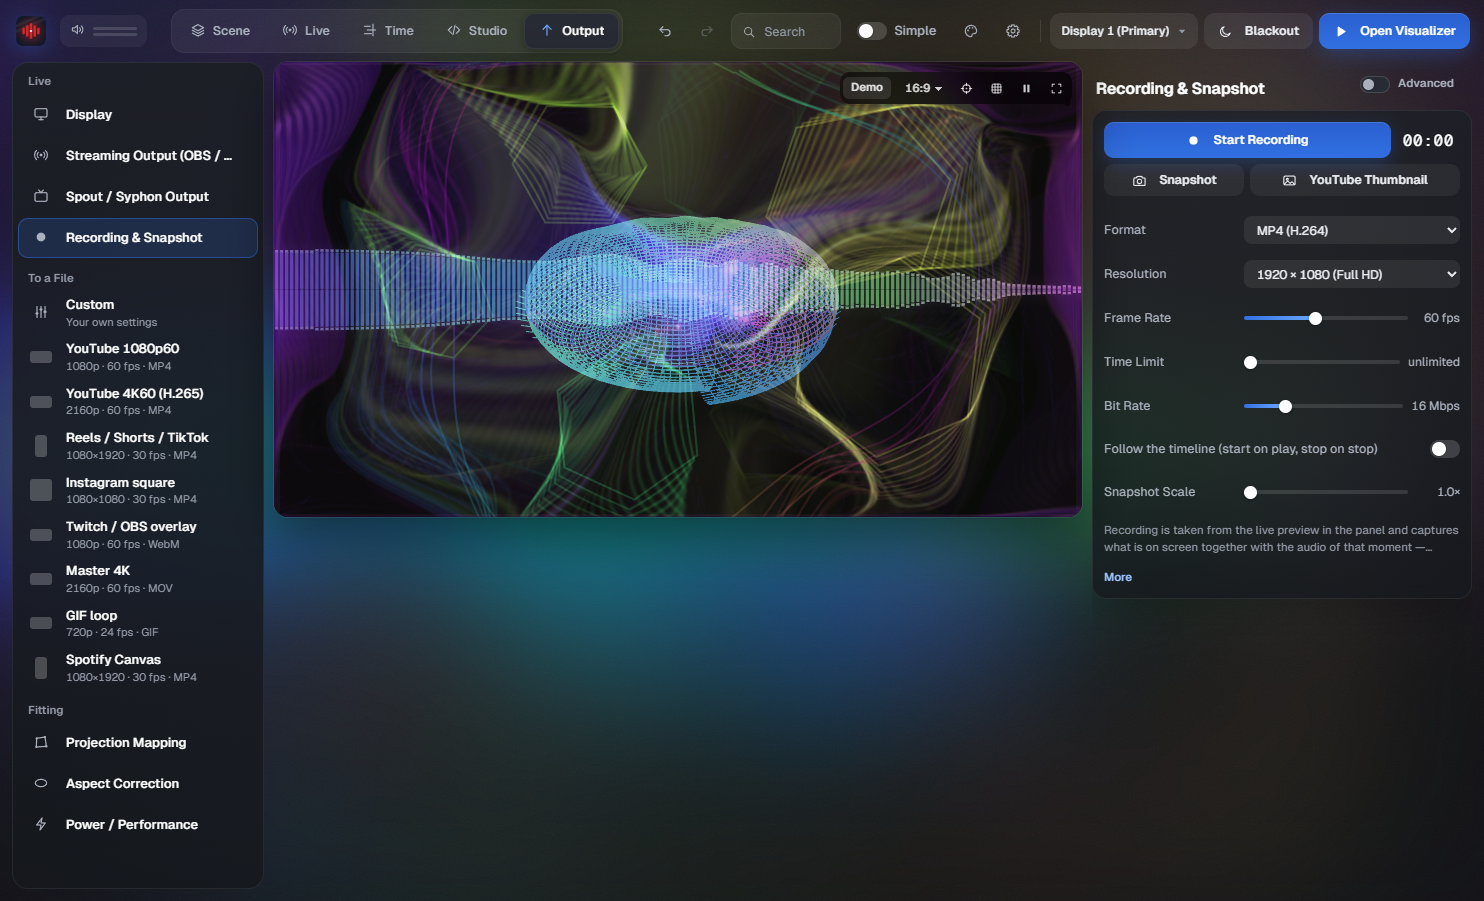
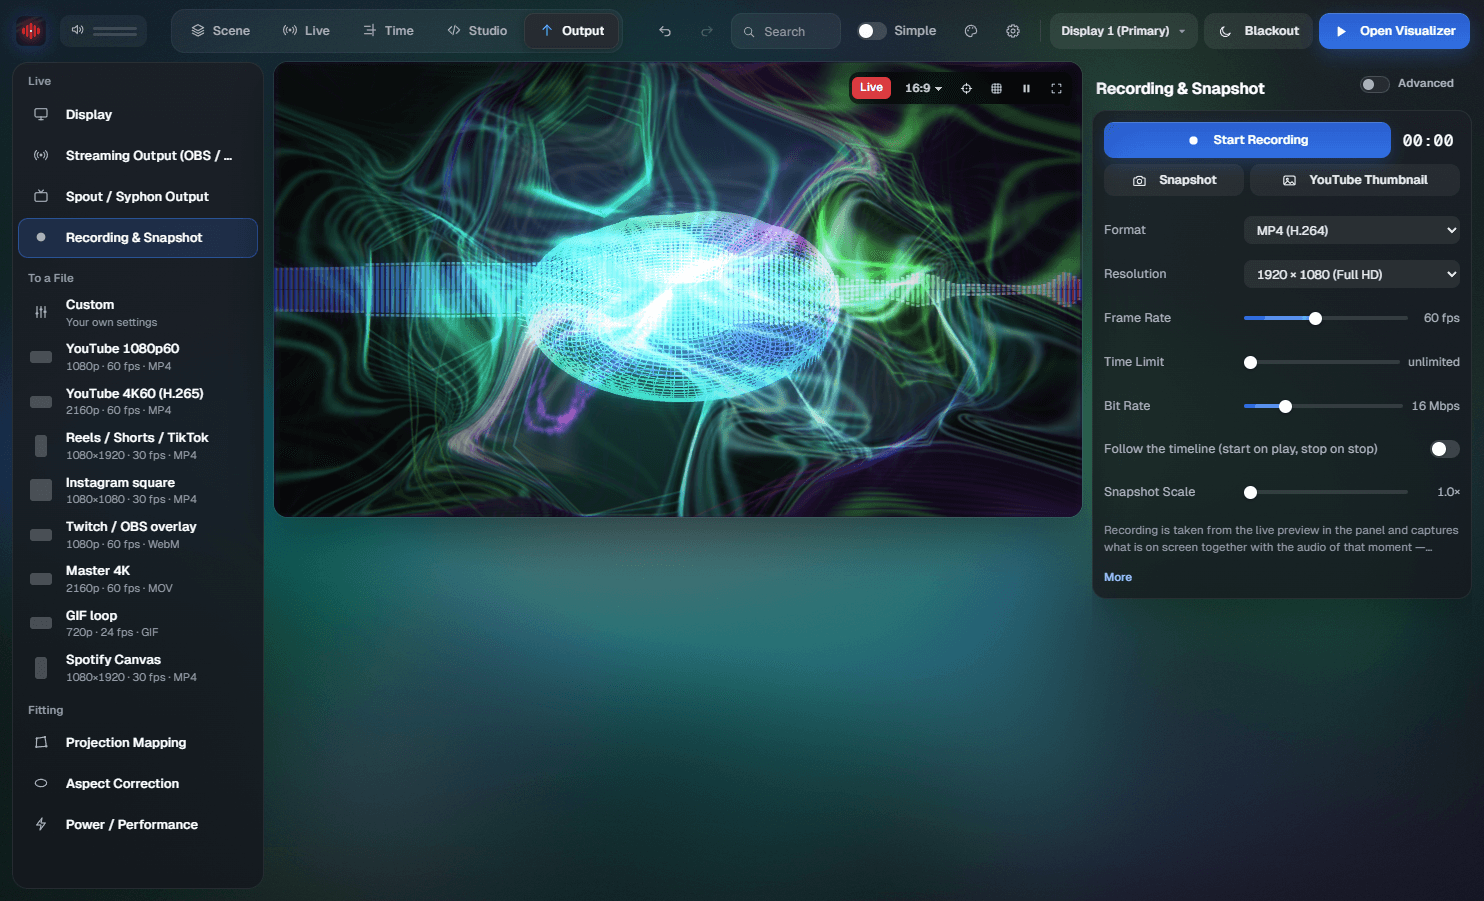
docs(v4): retake README panel screenshots; Deep Analysis name; default MilkDrop preset thumbnails (#905)
- --shots: demo show gets the example scenes, an effect chain, named macros
  and routes, synthetic audio for the panel; Live page, phone remote and
  Layout Editor shots; setup pages open on the right section; panel PNGs are
  palette-quantized (20 files 5.8 MB, mean difference 0.5-2.5 levels).
- English menu: 'Ses Çözümlemesi' is Deep Analysis (two Audio Analysis
  entries before).
- MilkDrop layers with no preset chosen show the preset the engine draws;
  late MilkDrop thumbnails also reach the Cued monitor.

diff --git a/src/main/main.js b/src/main/main.js
@@ -12581,7 +12581,15 @@ async function runShots() {
     const leak = realDevices.find((n) => text.includes(n));
     if (leak) throw new Error('gerçek ses aygıtı adı görünüyor');
     const img = await win.webContents.capturePage();
-    fs.writeFileSync(path.join(shotsDir, name), img.toPNG());
+    let png = img.toPNG();
+    /* Panel görüntüleri paletle (libimagequant, dither'lı). Canlı önizlemeden beslenen ortam ışığı
+       PNG'de kötü sıkışıyor: 20 görüntü 22 MB'tı, böyle ~6 MB. Ölçüldü: ortalama kanal farkı
+       0,7–2,3 seviye, yazılar ve arayüz aynı. Sahne çizimlerine (renk geçişleri) uygulanmıyor. */
+    if (/^panel-.*\.png$/.test(name)) {
+      try { png = await require('sharp')(png).png({ palette: true, quality: 92, effort: 10, dither: 1.0, compressionLevel: 9 }).toBuffer(); }
+      catch (e) { /* sharp yok: özgün PNG */ }
+    }
+    fs.writeFileSync(path.join(shotsDir, name), png);
     console.log('[SHOTS] saved ' + name);
   };
 
@@ -12700,6 +12708,25 @@ async function runShots() {
       { id: 'ly_show_np', name: 'Track Info', kind: 'nowplaying', type: 'nowplaying', enabled: true, settings: {} },
     ],
     visualizer: { type: 'milkdrop' },
+    /* Efekt zinciri boş olunca README'nin efekt görseli "Add effect…" diyen boş bir kart gösteriyordu. */
+    postfx: [
+      { id: 'fx_show_bloom', type: 'bloom', enabled: true, opacity: 1, params: { threshold: 0.4, intensity: 1.3, radius: 3 } },
+      { id: 'fx_show_chroma', type: 'chroma', enabled: true, opacity: 1, params: { amount: 0.004 } },
+      { id: 'fx_show_vignette', type: 'vignette', enabled: true, opacity: 1, params: { amount: 0.35 } },
+    ],
+    /* Modülasyon görseli: adlı makrolar ve sesten gelen birkaç bağlantı. Boşken sekiz adsız %0 makro
+       görünüyordu. Hedefler şovun kendi ayarları (efekt zinciri, katman saydamlığı). */
+    modulation: Object.assign({}, realCfg.modulation || {}, {
+      enabled: true,
+      macros: [['Energy', 0.72], ['Glow', 0.55], ['Motion', 0.4], ['Color Drift', 0.3], ['Strobe', 0], ['Warp', 0.2], ['', 0], ['', 0]]
+        .map(([name, value]) => ({ name, value })),
+      routes: [
+        { id: 'show_r1', enabled: true, source: 'anKick', target: 'postfx.0.params.intensity', min: 0.8, max: 2.4, mode: 'set', curve: 'exp', amount: 1 },
+        { id: 'show_r2', enabled: true, source: 'bass', target: 'postfx.1.params.amount', min: 0, max: 0.012, mode: 'set', curve: 'linear', amount: 1 },
+        { id: 'show_r3', enabled: true, source: 'lfo1', target: 'postfx.2.params.amount', min: 0.2, max: 0.5, mode: 'set', curve: 'linear', amount: 1 },
+        { id: 'show_r4', enabled: true, source: 'macro2', target: 'postfx.0.params.radius', min: 1, max: 5, mode: 'set', curve: 'linear', amount: 1 },
+      ],
+    }),
     milkdrop: { presetId: MD_PRESETS[0].id, name: MD_PRESETS[0].name, source: MD_PRESETS[0].source },
     timeline: {
       enabled: true,
@@ -12787,7 +12814,22 @@ async function runShots() {
   if (adminWin && !adminWin.isDestroyed() && (PANELS.some((p) => want(p[1])) || want('panel-remote.png'))) {
     const awc = adminWin.webContents;
     awc.send('external-config', Object.assign({}, realCfg, SHOW));
+    /* Panel görüntüleri boyunca da sentetik ses: üreticide gerçek yakalama kapalı, önizleme demo
+       sinyalinde kalıyor ve Ses Çözümlemesi (yalnız gerçek karede ölçüyor) bütün değerleri "—" ve
+       "silent" gösteriyordu. Sahnelerin pompasıyla aynı kare. */
+    const pt0 = Date.now();
+    const panelPump = setInterval(() => {
+      if (adminWin && !adminWin.isDestroyed()) adminWin.webContents.send('native-audio', makeFrame((Date.now() - pt0) / 1000));
+    }, 25);
     await wait(1500);
+    /* Şovda sahneler de olsun: ilk açılıştaki "Örnek sahneleri ekle" düğmesinin kurduğu sekiz sahne.
+       Zaman sayfasının Sahneler listesi ve raftaki Sahne sekmesi boş görünmesin. Düğmenin bildirimi
+       ilk görüntüye girmesin diye gizlenir. */
+    await awc.executeJavaScript(
+      "(function(){var P=window.SVPanel;if(P&&P.addStarterScenes&&!P.scenes().length)P.addStarterScenes();" +
+        "setTimeout(function(){document.querySelectorAll('.toast').forEach(function(t){t.classList.add('hidden');});},300);})()"
+    ).catch(() => {});
+    await wait(1200);
     for (const [page, name, need, prep, after] of PANELS) {
       if (!want(name)) continue;
       try {
@@ -12844,6 +12886,7 @@ async function runShots() {
         await syncStreamServer().catch(() => {});
       }
     }
+    clearInterval(panelPump);
     awc.send('external-config', realCfg);
     await wait(600);
   }

diff --git a/src/admin/scene-shell.js b/src/admin/scene-shell.js
@@ -168,7 +168,8 @@
       const cfg = P().cfg();
       const src = own && own.independent ? own : (cfg.milkdrop || {});
       const url = md.thumbFor(src);
-      if (src.presetId) box.setAttribute('data-thumb-for', src.presetId);
+      const did = md.drawnId ? md.drawnId(src) : src.presetId;
+      if (did) box.setAttribute('data-thumb-for', did);
       if (url) { box.appendChild(el('img', { src: url, alt: '', loading: 'lazy', onerror: (e) => { e.target.remove(); } })); return box; }
     }
     const modeId = (l.kind === 'visualizer' || l.kind === 'background') && l.type && !/^(none|milkdrop|custom)$/.test(l.type)
@@ -219,7 +220,9 @@
       if (!l || l.kind !== 'visualizer' || l.type !== 'milkdrop' || l.enabled === false) continue;
       const own = l.settings && l.settings.milkdrop;
       const src = own && own.independent ? own : (data.milkdrop || {});
-      if (src.presetId) return { id: src.presetId, url: md.thumbFor(src) };
+      // Preset seçilmemişse motorun çizdiği varsayılan preset (milkdrop-panel drawnId)
+      const id = md.drawnId ? md.drawnId(src) : src.presetId;
+      if (id) return { id, url: md.thumbFor(src) };
     }
     return null;
   }
@@ -1297,11 +1300,15 @@
     }
   }
 
-  // Küçük resim sonradan çizildi: bekleyen kutulara yerleştir
+  /* Küçük resim sonradan çizildi: bekleyen kutulara yerleştir. Kutu resmin sınıfını
+     `data-thumb-class` ile verebilir (Canlı'daki Sırada ekranı: tam kaplayan resim). */
   function thumbReady(id, url) {
     document.querySelectorAll('[data-thumb-for]').forEach((box) => {
       if (box.getAttribute('data-thumb-for') !== id || box.querySelector('img')) return;
-      box.replaceChildren(P().el('img', { src: url, alt: '' }));
+      const props = { src: url, alt: '' };
+      const cls = box.getAttribute('data-thumb-class');
+      if (cls) props.class = cls;
+      box.replaceChildren(P().el('img', props));
     });
   }
 

diff --git a/tests/first-run-ux.test.js b/tests/first-run-ux.test.js
@@ -149,3 +149,29 @@ test('Yayın Çıkışı notu var olan Spout çıkışını yok saymıyor', () =
   assert.doesNotMatch(st, /NDI ve Spout çıkışı bu sürümde yok/);
   assert.match(st, /Spout \/ Syphon Çıkışı ayrı bölümde\. NDI çıkışı bu sürümde yok\./);
 });
+
+test('preset seçilmemiş MilkDrop katmanı motorun çizdiği varsayılan presetin resmini alıyor', () => {
+  global.window = global.window || {};
+  window.SVMilkdropBuiltins = [{ id: 'md_first', source: 'x' }, { id: 'md_second', source: 'y' }];
+  const mp = read('src/admin/milkdrop-panel.js');
+  const body = /function drawnId\(md\) \{([\s\S]*?)\n  \}/.exec(mp);
+  assert.ok(body, 'drawnId');
+  // eslint-disable-next-line no-new-func
+  const drawnId = new Function('md', body[1]);
+  assert.strictEqual(drawnId({ presetId: 'md_x' }), 'md_x');
+  assert.strictEqual(drawnId({ presetId: '', source: '' }), 'md_first', 'motor kitaplığın ilkini çiziyor (milkdrop.js defaultSource)');
+  assert.strictEqual(drawnId({}), 'md_first');
+  assert.strictEqual(drawnId({ presetId: '', source: 'per_frame_1=...' }), '', 'yapıştırılmış kaynağın resmi yok');
+  assert.match(read('src/visualizer/modes/milkdrop.js'), /return \(Array\.isArray\(L\) && L\[0\] && L\[0\]\.source\) \|\| DEFAULT_PRESET;/);
+  const ss = read('src/admin/scene-shell.js');
+  assert.match(ss, /const id = md\.drawnId \? md\.drawnId\(src\) : src\.presetId;/);
+  // Sırada ekranı geç gelen preset resmini de alıyor, tam kaplayan sınıfla
+  assert.match(read('src/admin/live-shell.js'), /pvwFrame\.setAttribute\('data-thumb-class', 'sv-pvw-img'\)/);
+  assert.match(ss, /const cls = box\.getAttribute\('data-thumb-class'\);/);
+});
+
+test('İngilizce menüde iki ayrı "Audio Analysis" yok', () => {
+  const src = read('src/shared/i18n.js');
+  assert.match(src, /'Ses Analizi': 'Audio Analysis',/);
+  assert.match(src, /'Ses Çözümlemesi': 'Deep Analysis',/);
+});

diff --git a/src/admin/milkdrop-panel.js b/src/admin/milkdrop-panel.js
@@ -357,8 +357,18 @@
   const thumbUrl = (key) => 'sv-thumb://t/' + key + '.webp';
 
   // Denetçideki ve katman satırındaki resim: anahtar henüz yoksa bir sonraki çizimde
+  /* Ekranda çizilen presetin kimliği. Hiç preset seçilmemişse (presetId ve kaynak boş) motor
+     yerleşik kitaplığın ilkini çiziyor (milkdrop.js defaultSource); resmi de onunki. Eskiden boş
+     kimlik "resim yok" sayılıyordu: MilkDrop Flow gibi preset seçmeyen sahneler Canlı'daki Sırada
+     ekranında yalnız "2 Katman" yazısıydı. Elle yapıştırılmış (kimliksiz kaynaklı) preset için yok. */
+  function drawnId(md) {
+    if (md && md.presetId) return md.presetId;
+    if (md && md.source) return '';
+    const L = window.SVMilkdropBuiltins;
+    return (Array.isArray(L) && L[0] && L[0].id) || '';
+  }
   function thumbFor(md) {
-    const id = md && md.presetId;
+    const id = drawnId(md);
     if (!id) return '';
     const key = thumbKeys.get(id);
     if (key) return thumbUrl(key);
@@ -2221,7 +2231,7 @@
   window.SVMilkdropPanel = {
     panel, init, refresh, load, pointStackAtMilkdrop, pickBlocked, uiPickOk, currentPick, noteLive, liveId, history, act, fillStars,
     spriteTargets, preview, previewEdit, adopt, visibleList, presetSource: sourceOf, presetById: byId, presetByName: byName, go,
-    isOwnLayer, setLayerOwn, setLayerAuto, setPart, thumbFor, pickFor: (id) => { pickFor = id || ''; },
+    isOwnLayer, setLayerOwn, setLayerAuto, setPart, thumbFor, drawnId, pickFor: (id) => { pickFor = id || ''; },
   };
   if (typeof module !== 'undefined' && module.exports) {
     module.exports = window.SVMilkdropPanel;

diff --git a/src/admin/live-shell.js b/src/admin/live-shell.js
@@ -496,6 +496,9 @@
       else {
         const note = el('span', { class: 'sv-mon-note', text: P().sceneSummary(cued) });
         pvwFrame.appendChild(note);
+        /* MilkDrop'lu sahnenin preset resmi henüz çizilmemiş olabilir (yeni profil, kuyruk): gelince
+           ızgara kartlarıyla aynı yoldan buraya da gelsin. Eskiden ekran "2 Katman" yazısıyla kalıyordu. */
+        if (md && md.id) { pvwFrame.setAttribute('data-thumb-for', md.id); pvwFrame.setAttribute('data-thumb-class', 'sv-pvw-img'); }
         // Zemin + görsel mod resimleri (fillModes); gelince katman özeti kalkar
         fillModes(pvwFrame, cued, 'sv-pvw-img', () => { note.remove(); });
       }

diff --git a/src/shared/i18n.js b/src/shared/i18n.js
@@ -4186,7 +4186,8 @@
     // Arama & Navigasyon
     'Ses Analizi': 'Audio Analysis',
     'Ses Kaynakları': 'Audio Sources',
-    'Ses Çözümlemesi': 'Audio Analysis',
+    // "Ses Analizi" de Audio Analysis; aynı menüde iki aynı ad olmasın (README: Deep analysis)
+    'Ses Çözümlemesi': 'Deep Analysis',
     'Aktif Kaynaklar': 'Active Sources',
     'Art-Net / DMX Output': 'Art-Net / DMX Output',
     'Güç / Performans': 'Power / Performance',

diff --git a/CHANGELOG.md b/CHANGELOG.md
@@ -89,6 +89,14 @@ GitHub. The full reasoning and the measurements behind each change are in [ROADM
 - **The Cued monitor shows a picture for every scene.** A scene that had never been live showed only its colours and a list of its layers. It now shows the rendered preview of its MilkDrop preset, or of its background and top visual together (the visual's preview is laid over the background's with screen blending, close to how the layers combine on screen; at first only the top layer was used, so Aurora showed as a wave on black). No second renderer runs for it: a continuous preview of the cued scene would take its frames from the live output on the same GPU.
 - **Layer rows and Live faders show the mode they draw.** Only MilkDrop layers had a picture; visualizer and background layers showed a generic icon. They now show the same rendered preview as the library shelf. Text, logo, Now Playing and media layers keep their icon.
 - **Automation lanes no longer show Turkish in the English interface.** A lane's target was drawn on the timeline canvas as "group · name" built from the Turkish catalogue, so the English UI read "Ses · Duyarlılık [0..4]"; the target button and the picker's group headings did the same. Each part is now translated. Canvas text is invisible to the UI audit, which is how it slipped through; found in the README screenshots.
+- **"Deep Analysis" in the English menu.** The Audio setup page had two entries both called Audio
+  Analysis: the sensitivity settings and the key / chord / loudness meters. The second is now Deep
+  Analysis, as the README already called it.
+- **Scenes whose MilkDrop layer uses the default preset show a picture.** With no preset chosen, the
+  engine draws the first built-in preset, but the panel asked for no thumbnail at all. MilkDrop Flow,
+  for example, was a "2 Layers" caption on the Cued monitor. The panel now uses the preset the
+  engine actually draws. A preset that arrives later now also reaches the Cued monitor, not only the
+  grid cards.
 - **The Streaming Output note said Spout output was not available.** It is, under Spout / Syphon Output. The note now points there; NDI is still not available.
 - **One spelling in the English interface.** Nine strings said "colour" while about 150 said "color", sometimes on the same card (Color Theme next to Colour Preset). They now all say "color"; the background mode is Color Cloud.
 - **Scene grid cards show what the scene looks like.** Scenes that had never been live were a colour gradient on the Live page. They now use the same rendered previews as the Cued monitor.
@@ -283,6 +291,14 @@ GitHub. The full reasoning and the measurements behind each change are in [ROADM
 - **README: a "New in v4" section** (English and Turkish) with the Live page and T-bar, the phone remote, multi-pass shaders, video transport, adaptive resolution and the editing-speed work, each with its measurement. Corrected counts that had drifted from the code: 44 GPU effects (the effect list and two summaries said 40 and 42; Flash, Strobe, Tonemap and 3D LUT were missing from the list), 43 built-in shaders, 106 MCP tools (the table said 104). Quick start now names the panel as it is: **Library → Preset** and **Output → Streaming Output (OBS / Web)**. Adaptive resolution, which the README did not mention, is described under power and performance.
 - **A new showreel at the top** (`hero.webp`, 3.8 MB instead of 5.1 MB): the two newest CaYaDev MilkDrop presets, the multi-pass Ink Flow shader under Liquid Spectrum, Corona over a night sky, the Lorenz attractor, synthwave and a broadcast card, after your own recording.
 - **ROADMAP** records what was added in November, with measurements, and what was deliberately not taken.
+- **All twenty panel screenshots retaken on the current interface**, with three new ones: the Live
+  page (example scenes on F1–F8 and a T-bar held at 45 %), the phone remote, and the Layout Editor.
+  - The generator's demo show now includes the example scenes, an effect chain, named macros with
+    modulation routes, and synthetic audio for the panel itself. Before, the effects card was empty,
+    the macros were eight unnamed knobs at 0 %, and Deep Analysis read "silent".
+  - Two setup pages are now opened on the right section; their pictures had not been taken.
+  - Panel PNGs are palette-quantized with dithering. The twenty come to 5.8 MB, against 10.2 MB for
+    the old set and 22 MB unquantized; the mean channel difference is 0.5–2.5 levels.
 
 ## v3.1.7 — 2026-11-03
 

diff --git a/README.tr.md b/README.tr.md
@@ -20,7 +20,7 @@ kontrolü**.
 [![İndirme](https://img.shields.io/github/downloads/CaYatur/SoundVisualizer/total?label=indirme)](https://github.com/CaYatur/SoundVisualizer/releases)
 [![Lisans: MIT](https://img.shields.io/badge/Lisans-MIT-e11d2a.svg)](LICENSE)
 [![Platform](https://img.shields.io/badge/platform-Windows%20%7C%20macOS%20%7C%20Linux-111997.svg)](#hızlı-başlangıç)
-[![Test](https://img.shields.io/badge/test-4403%20geçiyor-2ea043.svg)](#testler)
+[![Test](https://img.shields.io/badge/test-4405%20geçiyor-2ea043.svg)](#testler)
 [![Electron](https://img.shields.io/badge/Electron-44-47848F.svg)](https://www.electronjs.org/)
 
 <a href="https://github.com/CaYatur/SoundVisualizer/releases/latest"><img src="https://img.shields.io/badge/%C4%B0ndir-Windows-0a84ff?style=for-the-badge" alt="Windows için indir" /></a>
@@ -2034,7 +2034,10 @@ npm start -- --shots
 Bu sayfadaki her paneli, sahneyi, klibi ve mod paftasını sentetik bir sinyalden, İngilizce arayüzle
 `docs/screenshots/` altına çiziyor. Gerçek ses yakalamıyor, kamerayı açmıyor, ayarlarınıza yazmıyor, ve
 o an ne çalıyorsa onun yerine elle yazılmış parça bilgisi kullanıyor. `--only=<ad>` eşleşen dosyalarla
-sınırlıyor.
+sınırlıyor (panel sayfaları için `--only=panel-`). Panel sayfaları bir demo şov gösteriyor: sekiz örnek
+sahne, zaman çizelgesi, klip destesi, efekt zinciri ve adlı makrolar; telefon kumandası uygulamanın kendi
+yayın sunucusundan çekiliyor. Panel PNG'leri dither'lı paletle küçültülüyor (boyutun yaklaşık dörtte biri,
+ortalama fark 3 seviyenin altında).
 
 ---
 
@@ -2048,7 +2051,7 @@ npm test
 npm start -- --smoke
 ```
 
-**4403 birim testi, hepsi geçiyor.** Satır çalıştırmak için değil, cevap denetlemek için yazıldılar:
+**4405 birim testi, hepsi geçiyor.** Satır çalıştırmak için değil, cevap denetlemek için yazıldılar:
 
 _Sayı koşunun toplamıdır (`# tests`). Birkaç test ortama bağlı (git çalışma kopyası, Node 22'nin yerleşik WebSocket'i, electron-builder şeması); bunlar eksikse geçti değil atlandı sayılır. Yani `geçen + atlanan` hep bu sayıya eşittir; atlanan sayısı bir makinede 0, başka birinde 1–4 olabilir._
 

diff --git a/README.md b/README.md
@@ -19,7 +19,7 @@ in and out, **projection mapping**, **RGB lighting**, a **timeline and clip deck
 [![Downloads](https://img.shields.io/github/downloads/CaYatur/SoundVisualizer/total?label=downloads)](https://github.com/CaYatur/SoundVisualizer/releases)
 [![License: MIT](https://img.shields.io/badge/License-MIT-e11d2a.svg)](LICENSE)
 [![Platform](https://img.shields.io/badge/platform-Windows%20%7C%20macOS%20%7C%20Linux-111997.svg)](#download)
-[![Tests](https://img.shields.io/badge/tests-4403%20passing-2ea043.svg)](#tests)
+[![Tests](https://img.shields.io/badge/tests-4405%20passing-2ea043.svg)](#tests)
 [![Electron](https://img.shields.io/badge/Electron-44-47848F.svg)](https://www.electronjs.org/)
 
 <a href="https://github.com/CaYatur/SoundVisualizer/releases/latest"><img src="https://img.shields.io/badge/Download-Windows-0a84ff?style=for-the-badge" alt="Download for Windows" /></a>
@@ -2024,7 +2024,10 @@ npm start -- --shots
 Renders every panel, scene, clip and mode sheet on this page into `docs/screenshots/`, in English,
 from a synthetic signal. It never captures real audio, never opens the camera, never writes your
 settings, and uses typed-in track details rather than whatever is playing. `--only=<name>` limits it
-to matching files.
+to matching files (`--only=panel-` for the panel pages). The panel pages show a demo show: the eight
+example scenes, a timeline, a clip deck, an effect chain and named macros; the phone remote is
+captured from the app's own streaming server. Panel PNGs are palette-quantized with dithering
+(about a quarter of the size, mean difference under 3 levels).
 
 ---
 
@@ -2038,7 +2041,7 @@ npm test
 npm start -- --smoke
 ```
 
-**4403 unit tests, all passing.** They are written to check answers, not to exercise lines:
+**4405 unit tests, all passing.** They are written to check answers, not to exercise lines:
 
 _The count is the runner's total (`# tests`). A few tests depend on the environment (a git checkout, Node 22's built-in WebSocket, the electron-builder schema); where that is missing they are reported as skipped, not passed, so `pass + skipped` always equals this number and the skipped count may be 0 on one machine and 1–4 on another._
 

diff --git a/ROADMAP.md b/ROADMAP.md
@@ -153,7 +153,7 @@ npm test
 npm start -- --smoke
 ```
 
-- **4403 unit tests, all passing** on `main`. 703 of those shipped in v3.1.0;
+- **4405 unit tests, all passing** on `main`. 703 of those shipped in v3.1.0;
   105 came with v3.1.1; 163 came with v3.1.2; 157 came with v3.1.3 — 1128 at
   that tag — 469 more with v3.1.4, most of them from the MilkDrop work — 1597 at
   that tag — 1402 more with v3.1.5 — 2999 at that tag — and 667
